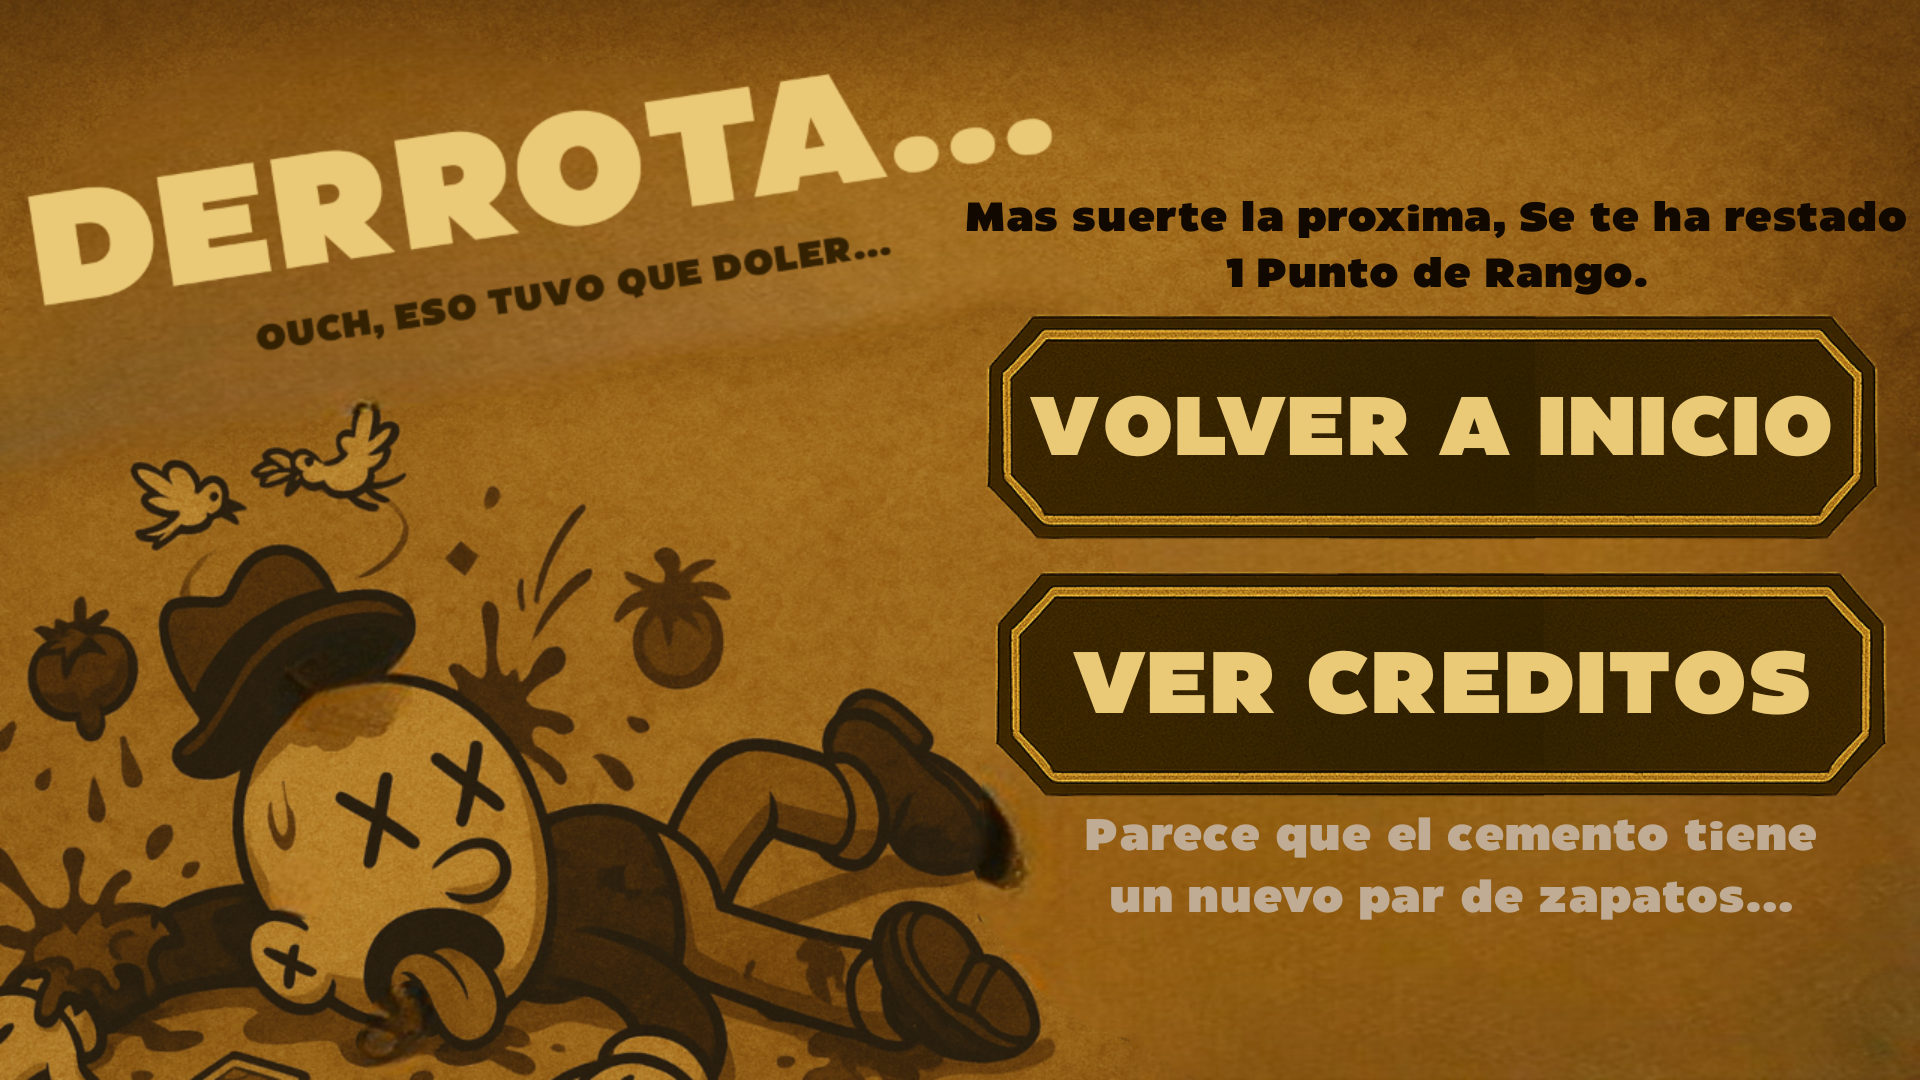
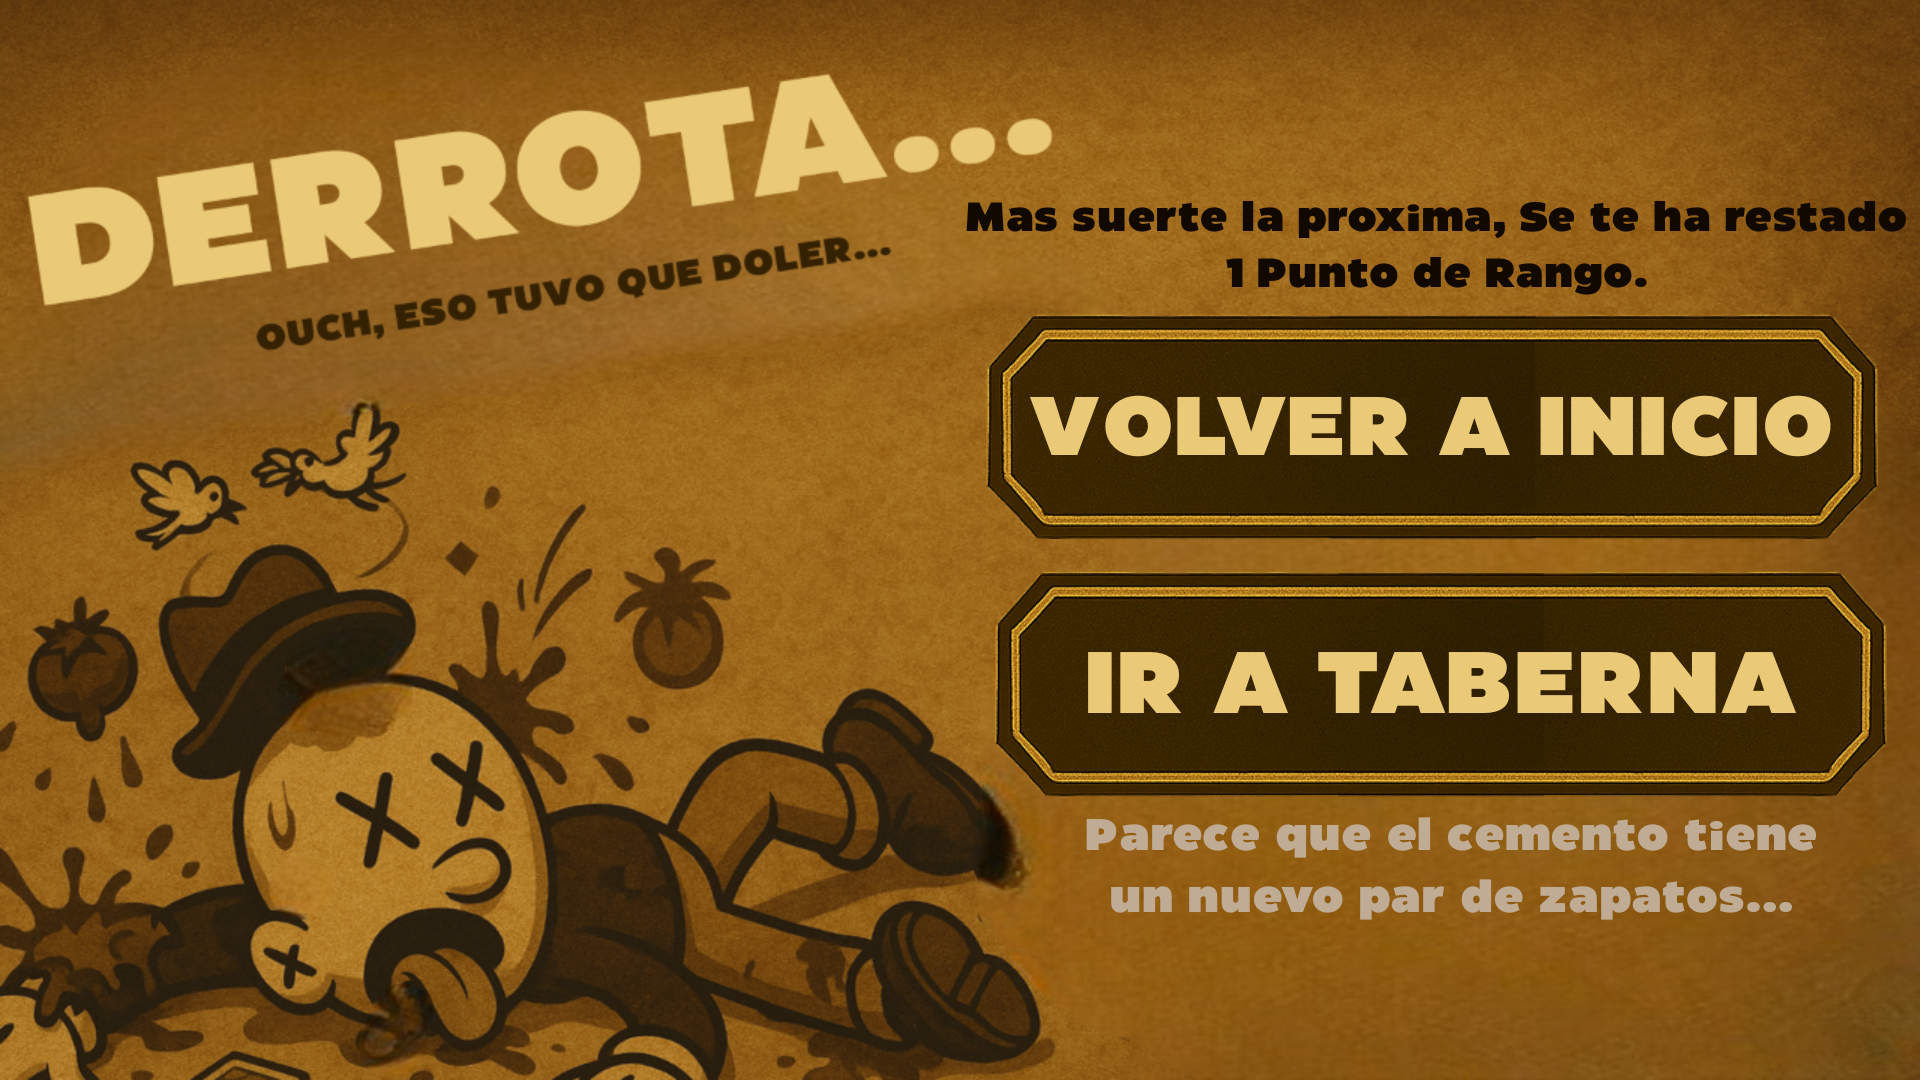
VERSION (0.49)
- Cambiadas las imagenes de Condicion de: VICTORIA, DERROTA Y EMPATE.

- Ahora en cualquier de estas pantallas puedes decidir si: Volver al inicio o Ir a la taberna.

Changed region(s): [[0.5625, 0.5806, 0.9375, 0.6722]]

diff --git a/core/src/main/java/mijuego/picadoh/batalla/PantallaDerrota.java b/core/src/main/java/mijuego/picadoh/batalla/PantallaDerrota.java
@@ -8,6 +8,7 @@ import com.badlogic.gdx.graphics.Texture;
 import com.badlogic.gdx.graphics.g2d.SpriteBatch;
 import mijuego.picadoh.Principal;
 import mijuego.picadoh.PantallaMenu;
+import mijuego.picadoh.taberna.PantallaTaberna;
 
 public class PantallaDerrota implements Screen {
 
@@ -15,7 +16,6 @@ public class PantallaDerrota implements Screen {
     private SpriteBatch batch;
     private Texture imagenDerrota;
 
-    // Coordenadas botón invisible
     private final int botonX1 = 1010;
     private final int botonX2 = 1853;
     private final int botonY1 = 568;
@@ -25,28 +25,31 @@ public class PantallaDerrota implements Screen {
         this.juego = juego;
         batch = new SpriteBatch();
         imagenDerrota = new Texture(Gdx.files.internal("lwjgl3/assets/condicion/DERROTA.png"));
-        juego.reproducirMusicaDerrota(); // Música en loop
+        juego.reproducirMusicaDerrota();
 
         Gdx.input.setInputProcessor(new InputAdapter() {
             @Override
             public boolean touchDown(int screenX, int screenY, int pointer, int button) {
-                // Invertimos Y para que coincida con el sistema gráfico
                 int yInvertida = Gdx.graphics.getHeight() - screenY;
 
                 if (screenX >= botonX1 && screenX <= botonX2 && yInvertida >= botonY1 && yInvertida <= botonY2) {
-                    // Click dentro del botón invisible
                     juego.setScreen(new PantallaMenu(juego));
                     return true;
                 }
+
+                if (screenX >= 1017 && screenX <= 1861 && yInvertida >= 309 && yInvertida <= 484) {
+                    juego.detenerMusicaActual();
+                    juego.setScreen(new PantallaTaberna(juego));
+                    return true;
+                }
+
                 return false;
             }
         });
     }
 
     @Override
-    public void show() {
-        // No se necesita por ahora
-    }
+    public void show() {}
 
     @Override
     public void render(float delta) {
@@ -59,24 +62,16 @@ public class PantallaDerrota implements Screen {
     }
 
     @Override
-    public void resize(int width, int height) {
-        // No se necesita por ahora
-    }
+    public void resize(int width, int height) {}
 
     @Override
-    public void pause() {
-        // No se necesita por ahora
-    }
+    public void pause() {}
 
     @Override
-    public void resume() {
-        // No se necesita por ahora
-    }
+    public void resume() {}
 
     @Override
-    public void hide() {
-        // No se necesita por ahora
-    }
+    public void hide() {}
 
     @Override
     public void dispose() {

diff --git a/core/src/main/java/mijuego/picadoh/batalla/PantallaVictoria.java b/core/src/main/java/mijuego/picadoh/batalla/PantallaVictoria.java
@@ -8,6 +8,7 @@ import com.badlogic.gdx.graphics.Texture;
 import com.badlogic.gdx.graphics.g2d.SpriteBatch;
 import mijuego.picadoh.Principal;
 import mijuego.picadoh.PantallaMenu;
+import mijuego.picadoh.taberna.PantallaTaberna;
 
 public class PantallaVictoria implements Screen {
 
@@ -15,7 +16,6 @@ public class PantallaVictoria implements Screen {
     private SpriteBatch batch;
     private Texture imagenVictoria;
 
-    // Coordenadas botón invisible
     private final int botonX1 = 938;
     private final int botonX2 = 1718;
     private final int botonY1 = 542;
@@ -25,28 +25,31 @@ public class PantallaVictoria implements Screen {
         this.juego = juego;
         batch = new SpriteBatch();
         imagenVictoria = new Texture(Gdx.files.internal("lwjgl3/assets/condicion/VICTORIA.png"));
-        juego.reproducirMusicaVictoria(); // Música en loop (configurada en Principal)
+        juego.reproducirMusicaVictoria();
 
         Gdx.input.setInputProcessor(new InputAdapter() {
             @Override
             public boolean touchDown(int screenX, int screenY, int pointer, int button) {
-                // Las coordenadas Y de input van invertidas (0 abajo, pantalla arriba)
                 int yInvertida = Gdx.graphics.getHeight() - screenY;
 
                 if (screenX >= botonX1 && screenX <= botonX2 && yInvertida >= botonY1 && yInvertida <= botonY2) {
-                    // Clic dentro del botón invisible
                     juego.setScreen(new PantallaMenu(juego));
                     return true;
                 }
+
+                if (screenX >= 942 && screenX <= 1788 && yInvertida >= 284 && yInvertida <= 460) {
+                    juego.detenerMusicaActual();
+                    juego.setScreen(new PantallaTaberna(juego));
+                    return true;
+                }
+
                 return false;
             }
         });
     }
 
     @Override
-    public void show() {
-        // No necesario
-    }
+    public void show() {}
 
     @Override
     public void render(float delta) {
@@ -59,24 +62,16 @@ public class PantallaVictoria implements Screen {
     }
 
     @Override
-    public void resize(int width, int height) {
-        // No necesario
-    }
+    public void resize(int width, int height) {}
 
     @Override
-    public void pause() {
-        // No necesario
-    }
+    public void pause() {}
 
     @Override
-    public void resume() {
-        // No necesario
-    }
+    public void resume() {}
 
     @Override
-    public void hide() {
-        // No necesario
-    }
+    public void hide() {}
 
     @Override
     public void dispose() {

diff --git a/core/src/main/java/mijuego/picadoh/batalla/PantallaEmpate.java b/core/src/main/java/mijuego/picadoh/batalla/PantallaEmpate.java
@@ -8,6 +8,7 @@ import com.badlogic.gdx.graphics.Texture;
 import com.badlogic.gdx.graphics.g2d.SpriteBatch;
 import mijuego.picadoh.Principal;
 import mijuego.picadoh.PantallaMenu;
+import mijuego.picadoh.taberna.PantallaTaberna;
 
 public class PantallaEmpate implements Screen {
 
@@ -15,43 +16,48 @@ public class PantallaEmpate implements Screen {
     private SpriteBatch batch;
     private Texture imagenEmpate;
 
-    // Coordenadas botón invisible (rectángulo)
-    // X: 85 a 831  |  Y: 715 a 872
     private static final int BOTON_X1 = 85;
     private static final int BOTON_X2 = 831;
     private static final int BOTON_Y1 = 715;
     private static final int BOTON_Y2 = 872;
+
+    private static final int BOTON_TABERNA_X1 = 1058;
+    private static final int BOTON_TABERNA_X2 = 1814;
+    private static final int BOTON_TABERNA_Y1 = 716;
+    private static final int BOTON_TABERNA_Y2 = 873;
 
     public PantallaEmpate(Principal juego) {
         this.juego = juego;
         batch = new SpriteBatch();
         imagenEmpate = new Texture(Gdx.files.internal("lwjgl3/assets/condicion/EMPATE.png"));
 
-        // Reproduce EMPATE.mp3
         juego.reproducirMusicaEmpate();
 
-        // Input para botón invisible
         Gdx.input.setInputProcessor(new InputAdapter() {
             @Override
             public boolean touchDown(int screenX, int screenY, int pointer, int button) {
-                // Invertimos Y (en render 0 está abajo)
                 int yInvertida = Gdx.graphics.getHeight() - screenY;
 
                 if (screenX >= BOTON_X1 && screenX <= BOTON_X2 &&
                     yInvertida >= BOTON_Y1 && yInvertida <= BOTON_Y2) {
-                    // Click dentro del rectángulo invisible -> volver al menú
                     juego.setScreen(new PantallaMenu(juego));
                     return true;
                 }
+
+                if (screenX >= BOTON_TABERNA_X1 && screenX <= BOTON_TABERNA_X2 &&
+                    yInvertida >= BOTON_TABERNA_Y1 && yInvertida <= BOTON_TABERNA_Y2) {
+                    juego.detenerMusicaActual();
+                    juego.setScreen(new PantallaTaberna(juego));
+                    return true;
+                }
+
                 return false;
             }
         });
     }
 
     @Override
-    public void show() {
-        // No es necesario por ahora
-    }
+    public void show() {}
 
     @Override
     public void render(float delta) {
